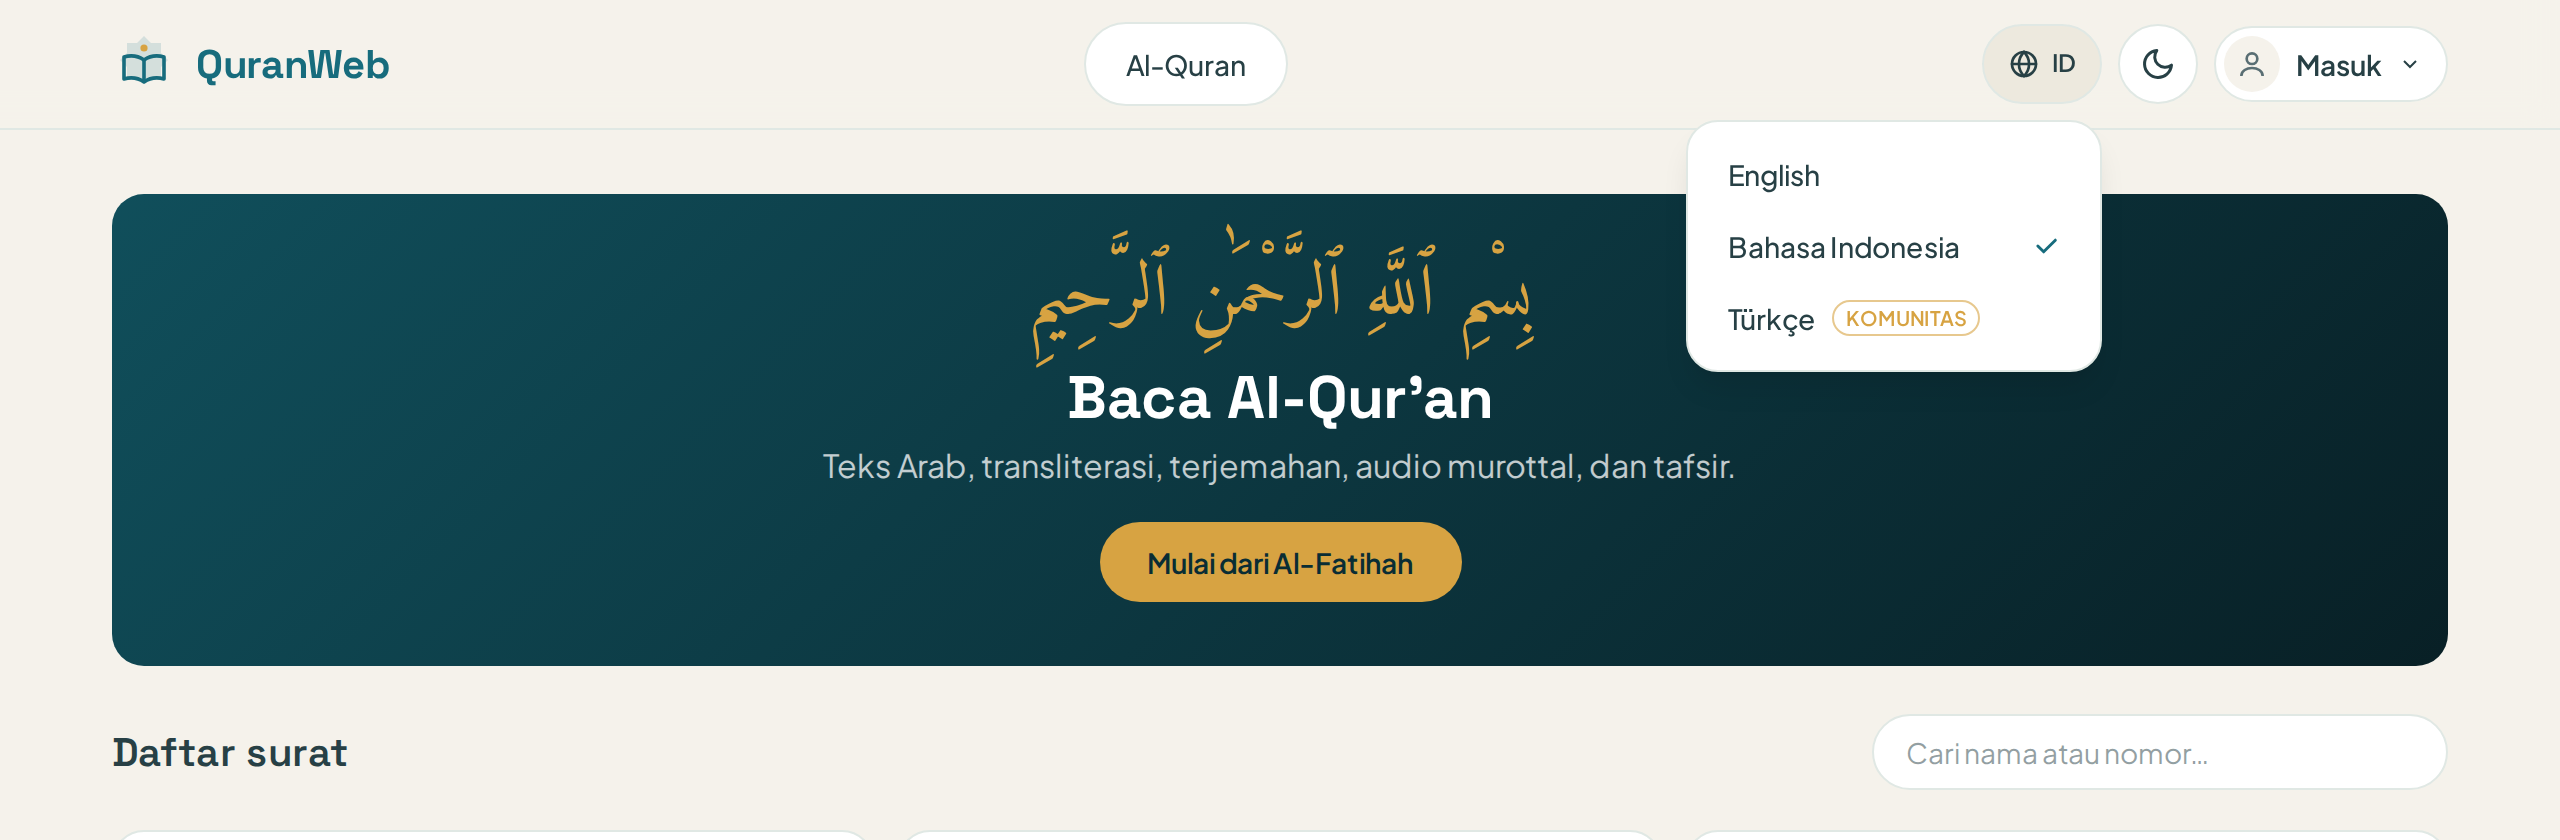
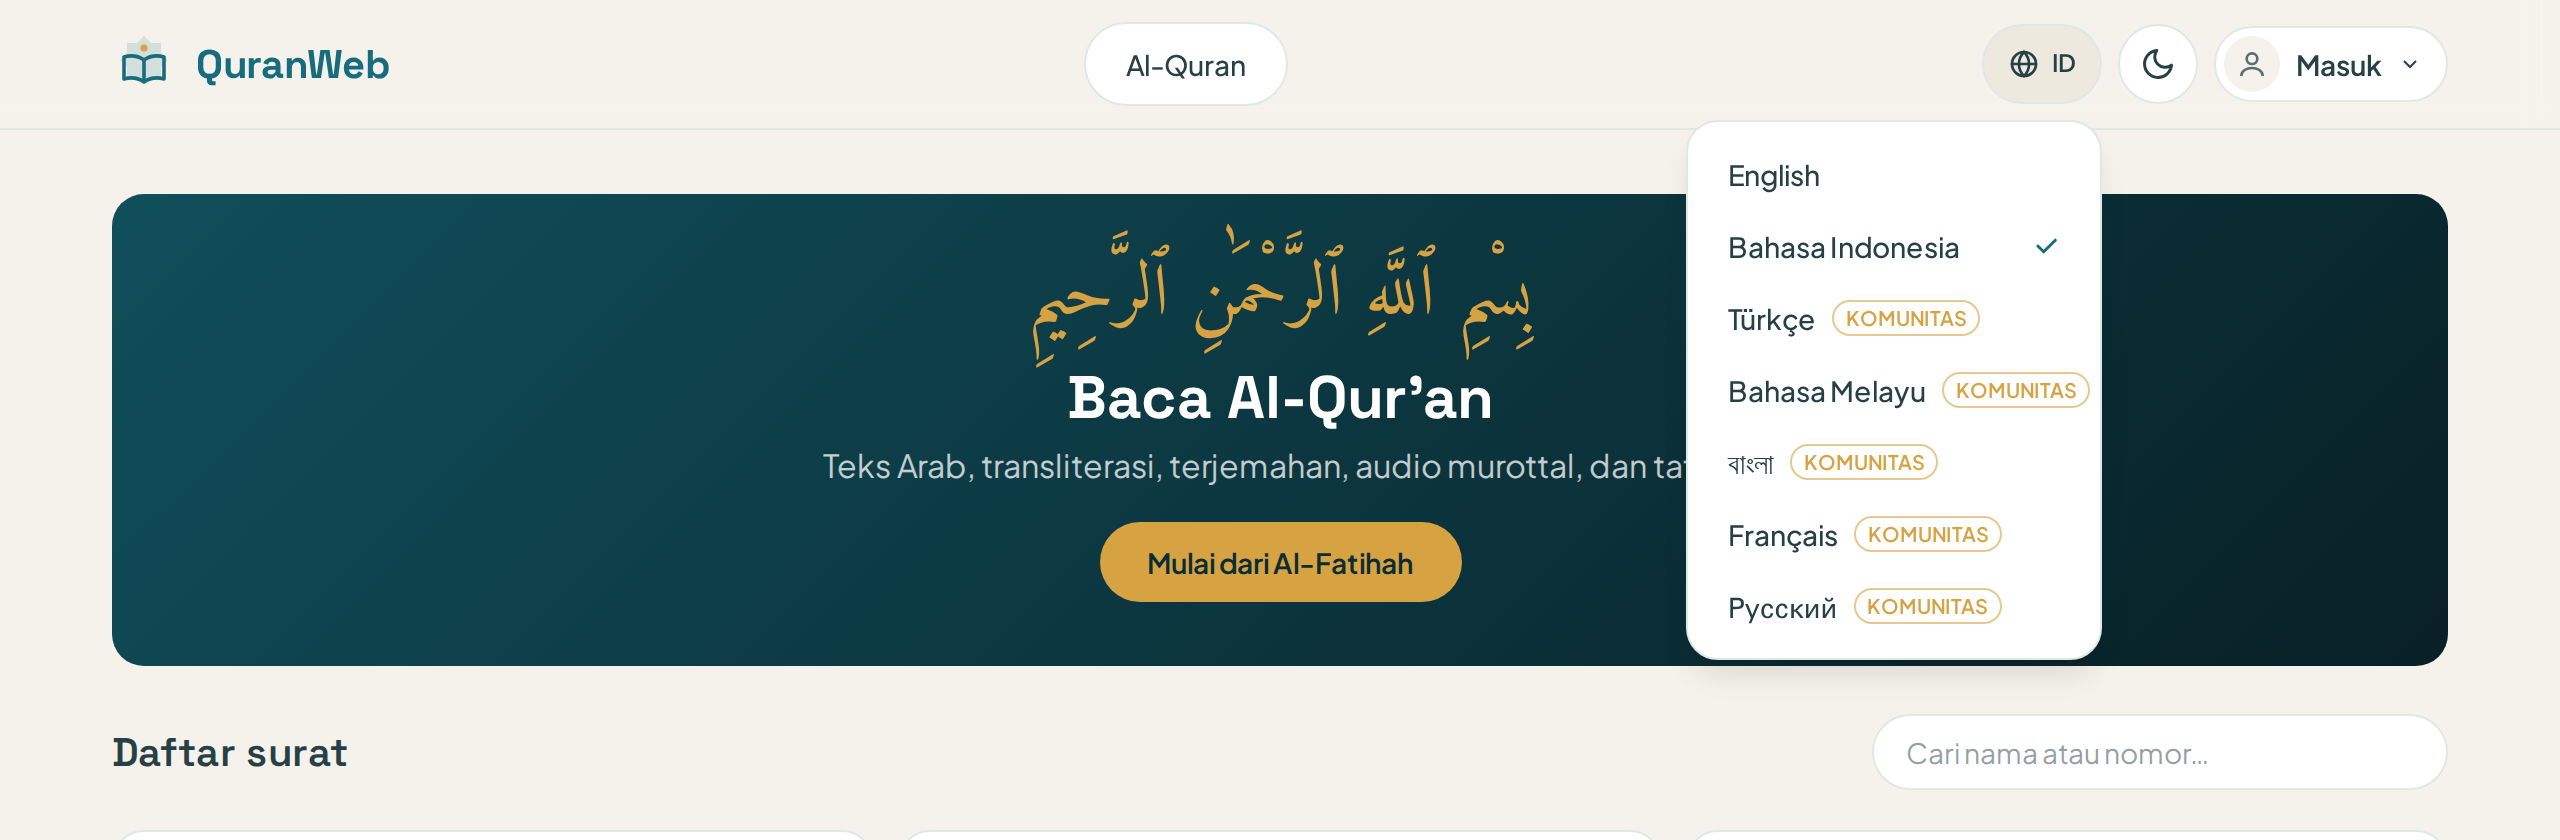
Let the community badge wrap in the language menu, retake its picture
With seven languages, "Bahasa Melayu" and the Russian or French
Community badge were 5 to 9 px wider than the menu and were cut off.
The badge now goes to a second line when it does not fit; the menu
keeps its width so it stays on screen at 320 px. The README picture
of the menu is retaken from QA and shows all seven languages.

Changed region(s): [[0.6562, 0.4333, 0.8438, 0.8048]]

diff --git a/src/components/LanguageMenu.tsx b/src/components/LanguageMenu.tsx
@@ -77,18 +77,20 @@ export default function LanguageMenu() {
                 close();
                 choose(code);
               }}
-              className="flex w-full items-center justify-between gap-3 whitespace-nowrap rounded-xl px-3 py-2 text-left text-sm font-medium hover:bg-background"
+              className="flex w-full items-center justify-between gap-3 rounded-xl px-3 py-2 text-left text-sm font-medium hover:bg-background"
             >
-              <span className="flex items-center gap-2">
+              {/* The badge goes to a second line when the name and the badge do not fit the menu (Bahasa Melayu with the
+                  Russian or French badge); the menu keeps its width so it stays on screen at 320px. */}
+              <span className="flex flex-wrap items-center gap-x-2 gap-y-0.5">
                 {/* Only the name is in its own language: the badge is interface text (and `uppercase` follows the lang, so
                     a Turkish lang on the whole item would write "COMMUNİTY"). */}
-                <span lang={code} translate="no">
+                <span lang={code} translate="no" className="whitespace-nowrap">
                   {name}
                 </span>
                 {community && (
                   <span
                     title={t("nav.communityTranslation")}
-                    className="rounded-full border border-gold/60 px-1.5 text-[10px] font-semibold uppercase leading-4 text-gold"
+                    className="whitespace-nowrap rounded-full border border-gold/60 px-1.5 text-[10px] font-semibold uppercase leading-4 text-gold"
                   >
                     {t("nav.communityBadge")}
                   </span>
